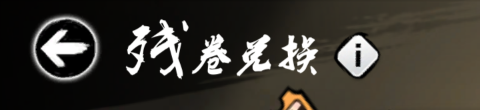
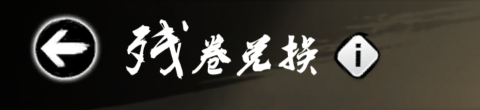
fix: 残卷店返回改点返回按钮，避免点空触发错误环

Changed region(s): [[0.5625, 0.7909, 0.6875, 1.0]]

diff --git a/tests/test_pipeline_guards.py b/tests/test_pipeline_guards.py
@@ -263,13 +263,32 @@ class PipelineGuardTest(unittest.TestCase):
             shop_back["recognition"]["param"]["template"],
             ["每周逆袭残卷兑换标题.png"],
         )
+        self.assertEqual(
+            shop_back["next"],
+            ["每周逆袭悬赏残卷商店点击返回按钮"],
+        )
+        back_btn = pipeline["每周逆袭悬赏残卷商店点击返回按钮"]
+        self.assertEqual(
+            back_btn["recognition"]["param"]["template"],
+            ["返回按钮.png"],
+        )
+        self.assertEqual(back_btn["action"]["type"], "Click")
+        self.assertNotIn("target", back_btn["action"].get("param", {}))
         wrong_shop = pipeline["每周逆袭悬赏误入悬赏令商店点返回"]
         self.assertEqual(wrong_shop["recognition"]["type"], "TemplateMatch")
+        self.assertEqual(
+            wrong_shop["next"],
+            ["每周逆袭悬赏残卷商店点击返回按钮"],
+        )
         wait_black = pipeline["每周逆袭悬赏残卷返回后等到黑屏"]
         self.assertEqual(wait_black["recognition"]["type"], "ColorMatch")
         self.assertEqual(
             wait_black["next"],
             ["每周逆袭悬赏残卷黑屏结束立刻狂点"],
+        )
+        self.assertEqual(
+            wait_black["on_error"],
+            ["每周逆袭悬赏残卷商店内点返回"],
         )
         end_black = pipeline["每周逆袭悬赏残卷黑屏结束立刻狂点"]
         self.assertTrue(end_black["inverse"])

diff --git a/.mr3a-records/roadmap.md b/.mr3a-records/roadmap.md
@@ -86,6 +86,6 @@ Agent 启动终端的大块乱码已确认是截图头被 Waydroid `amdgpu.ids` 
 
 2026-10-24：每周逆袭阶段2/3收尾先认等级再认空掉落；管道去遗留 `enable`；悬赏商店滑程对齐；多人竞速认「看我的吧」+ Agent 防孤儿；3v3 观战等待去重复 on_error。详见 `archived/2026-10-24-misc-pipeline-and-agent.md`。
 
-2026-10-25：每周逆袭可选残卷兑换进出刷新（认刷新页 + 标题模板进店 + 黑屏结束再狂点×8）；悬赏类结算确定改为 OCR 点「确定|下一页」命中框，不再大块 DirectHit。刷新选项改为 switch「残卷兑换进出刷新」（Yes/No，label 写明含义）。详见 `archived/2026-10-25-weekly-fragment-refresh-and-settlement-click.md`。
+2026-10-25：每周逆袭可选残卷兑换进出刷新（认刷新页 + 标题模板进店 + 黑屏结束再狂点×8）；悬赏类结算确定改为 OCR 点「确定|下一页」命中框，不再大块 DirectHit。刷新选项改为 switch「残卷兑换进出刷新」（Yes/No，label 写明含义）。残卷店返回改点 `返回按钮.png`，避免硬编码点空触发 error loop。详见 `archived/2026-10-25-weekly-fragment-refresh-and-settlement-click.md`。
 
 2026-10-25：开发记录规则补强——工作区常为 `/home/linn` 时 `MR3A/.cursor/rules` 不注入；在 `~/.cursor/rules/mr3a-development-records.mdc` 与仓库 `AGENTS.md` 再挂强制写 `.mr3a-records`。详见 `archived/2026-10-25-records-rule-home-workspace.md`。

diff --git a/.mr3a-records/archived/2026-10-25-weekly-fragment-refresh-and-settlement-click.md b/.mr3a-records/archived/2026-10-25-weekly-fragment-refresh-and-settlement-click.md
@@ -13,6 +13,7 @@
   - `每周逆袭残卷兑换标题.png`
   - `每周逆袭悬赏令商店标题.png`
   （截图实测 OCR「残卷兑换」常读成繁体错字，不用 OCR replace。）
+- 标题确认后点 `返回按钮.png`（硬编码 `[50,42]` 落在白底，实机出不了店，黑屏超时与 `残卷兑换刷新` 互咬触发 `error handling loop`）。
 - 点返回 → ColorMatch 等到黑屏出现 → `inverse` 等到黑屏结束 → 立刻 `每周逆袭悬赏点击刷新后狂点加入队伍`（×8）回核心。
 - 不写抢点枢纽 / 盲点加入；也不做「查看详情」专项处理。
 
